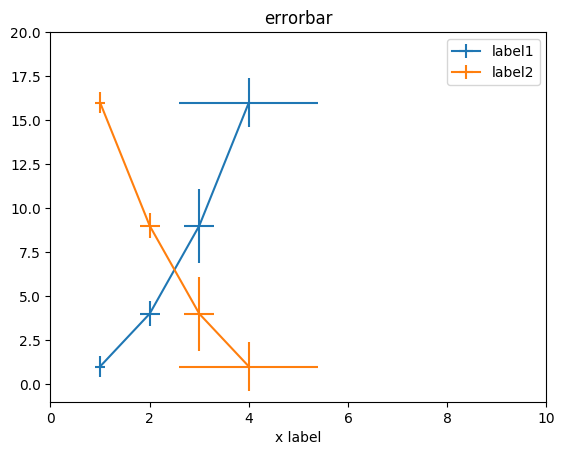
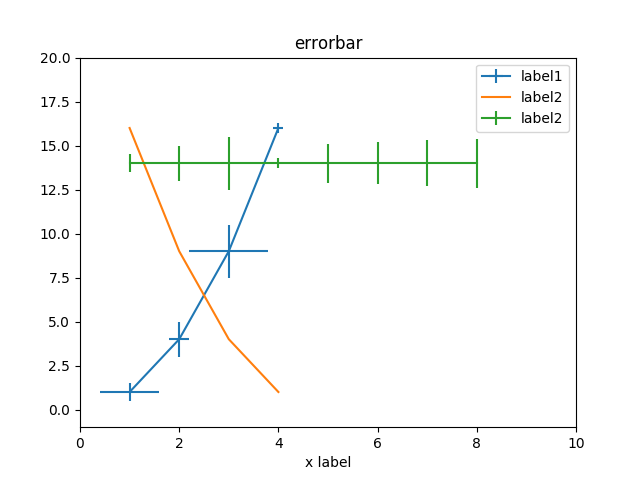
Update sample of errorbar

diff --git a/README.md b/README.md
@@ -179,15 +179,14 @@ scatter.render
  
 ```ruby
 errorbar = charty.errorbar do
-  series [1,2,3,4], [1,4,9,16], label: 'label1'
+  series [1,2,3,4], [1,4,9,16], xerr: [0.5,1.0,1.5,0.3], yerr: [0.6,0.2,0.8,0.1], label: 'label1'
   series [1,2,3,4], [16,9,4,1], label: 'label2'
+  series [1,2,3,4,5,6,7,8], [14,14,14,14,14,14,14,14], label: 'label2', xerr: [0.5,1.0,1.5,0.3, 1.1, 1.2, 1.3, 1.4]
   range x: 0..10, y: -1..20
-  yerr [0.6,0.7,2.1,1.4]
-  xerr [0.1,0.2,0.3,1.4]
   xlabel 'x label'  
   title 'errorbar'
 end
-errorbar.render
+errorbar.render("sample_images/errorbar_matplot.png")
 ```
 
 #### Matplotlib
